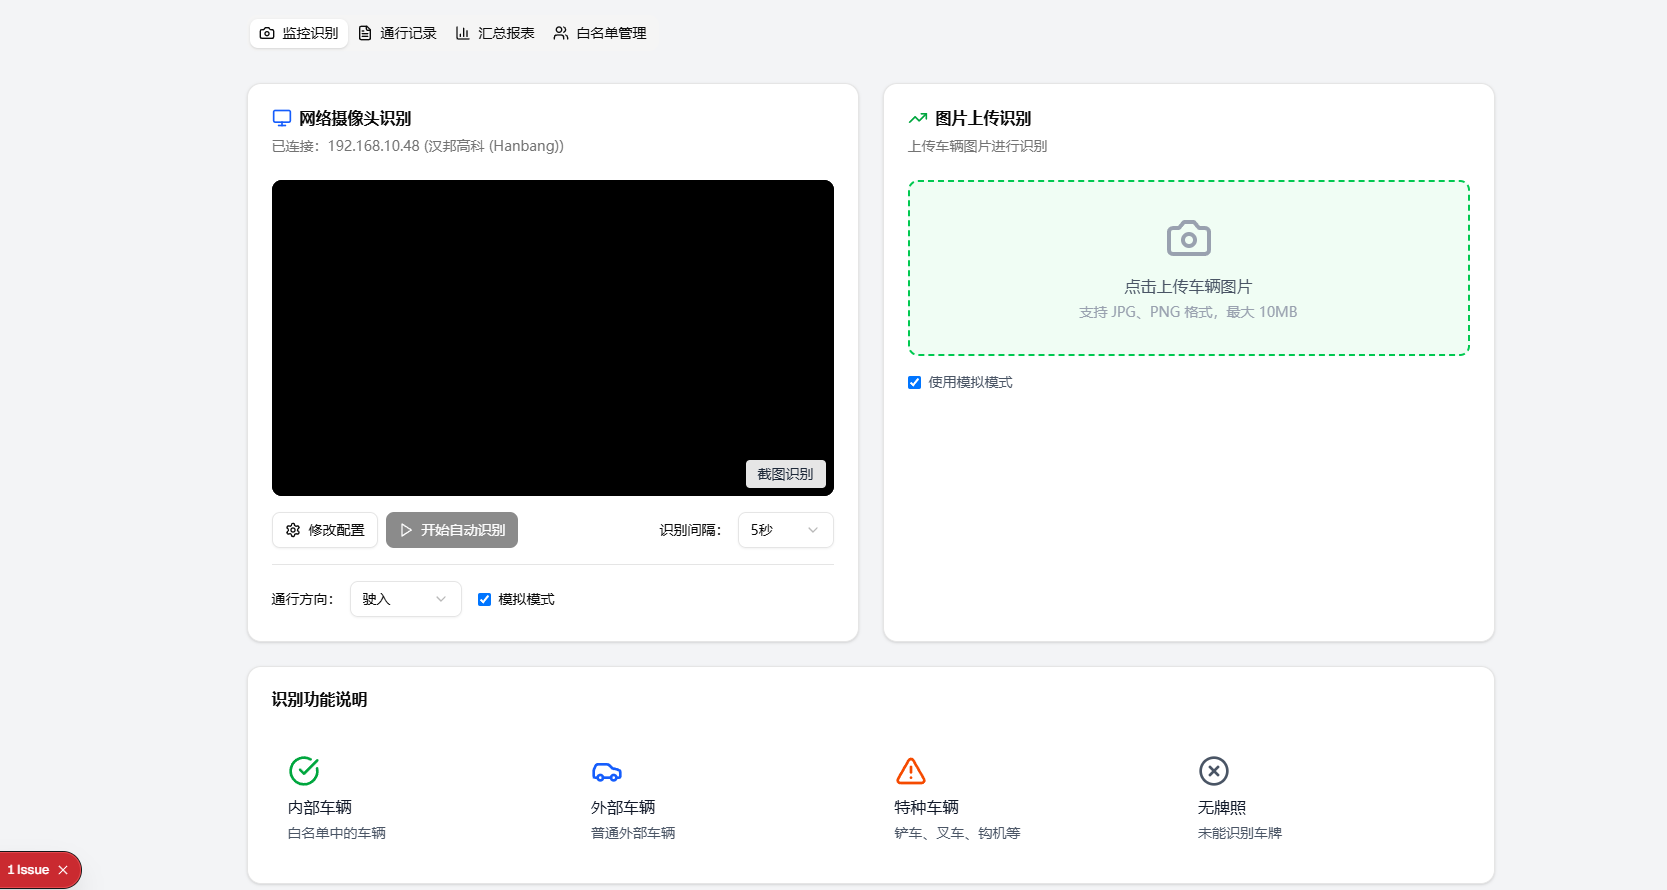
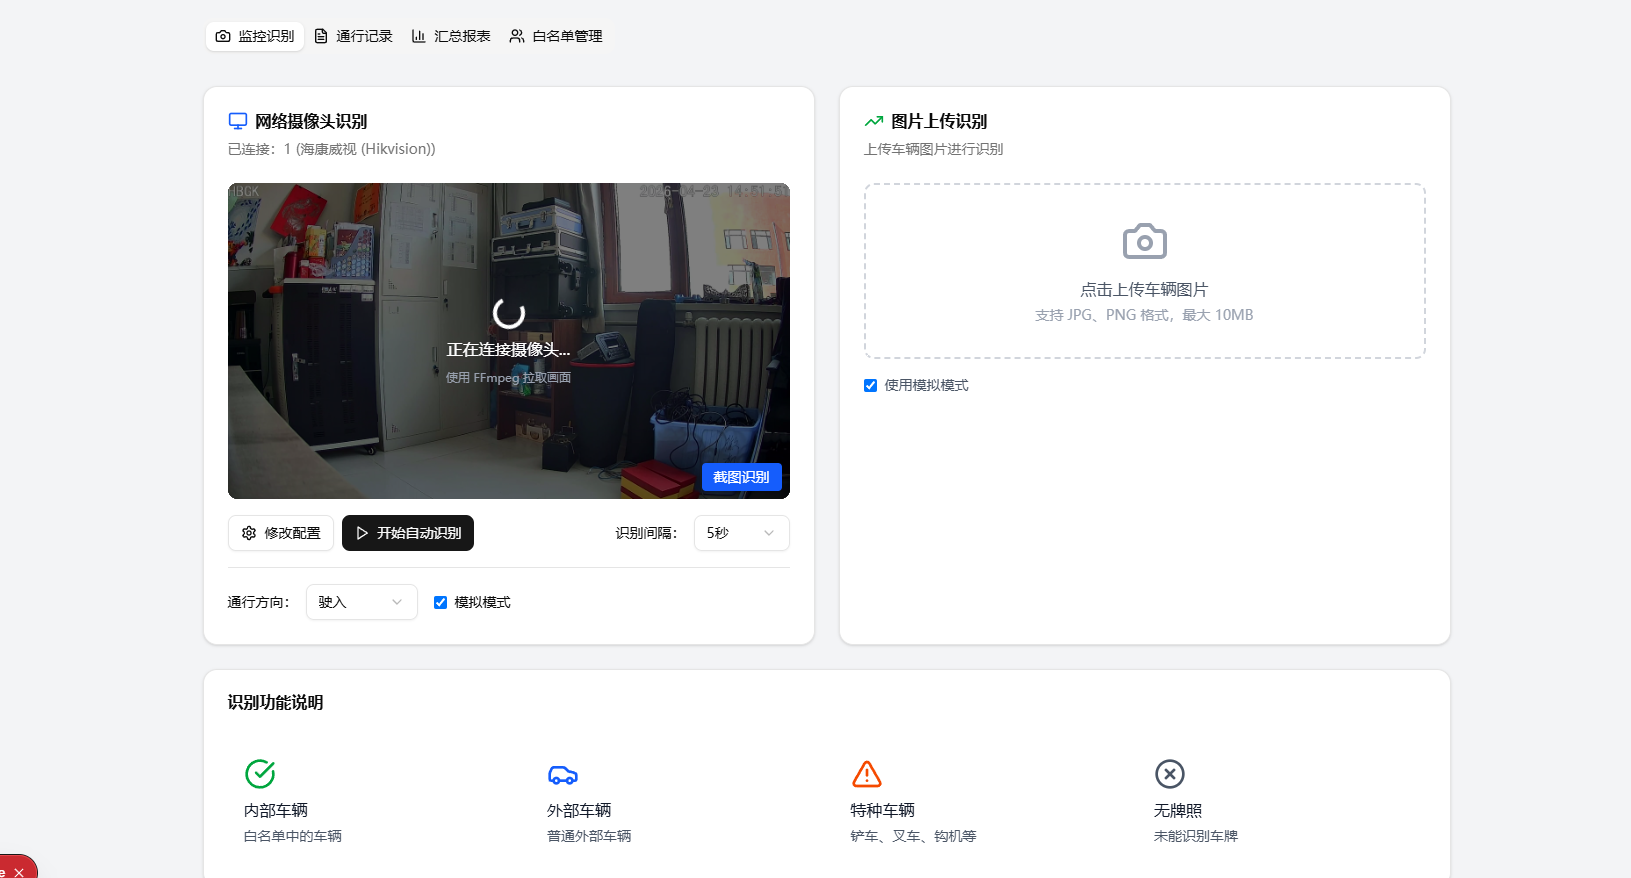
fix: 降低FFmpeg截图刷新频率，优化画面稳定性

diff --git a/src/app/RTSPPlayer.tsx b/src/app/RTSPPlayer.tsx
@@ -48,23 +48,14 @@ export default function RTSPPlayer({
         setStatus('error');
       });
 
-    // 每秒更新一次画面
+    // 每3秒更新一次画面
     intervalRef.current = setInterval(() => {
-      fetch(`/api/snapshot?url=${encodeURIComponent(url)}&t=${Date.now()}`)
-        .then(res => res.json())
-        .then(data => {
-          if (data.success && data.image) {
-            setImageUrl(data.image + `&t=${Date.now()}`);
-            if (status !== 'playing') {
-              setStatus('playing');
-              onPlay?.();
-            }
-          }
-        })
-        .catch(err => {
-          console.error('定时截图失败:', err);
-        });
-    }, 1000);
+      const timestamp = Date.now();
+      setImageUrl(prev => {
+        // 添加时间戳强制刷新
+        return prev ? prev.split('&t=')[0] + `&t=${timestamp}` : prev;
+      });
+    }, 3000);
 
     return () => {
       if (intervalRef.current) {